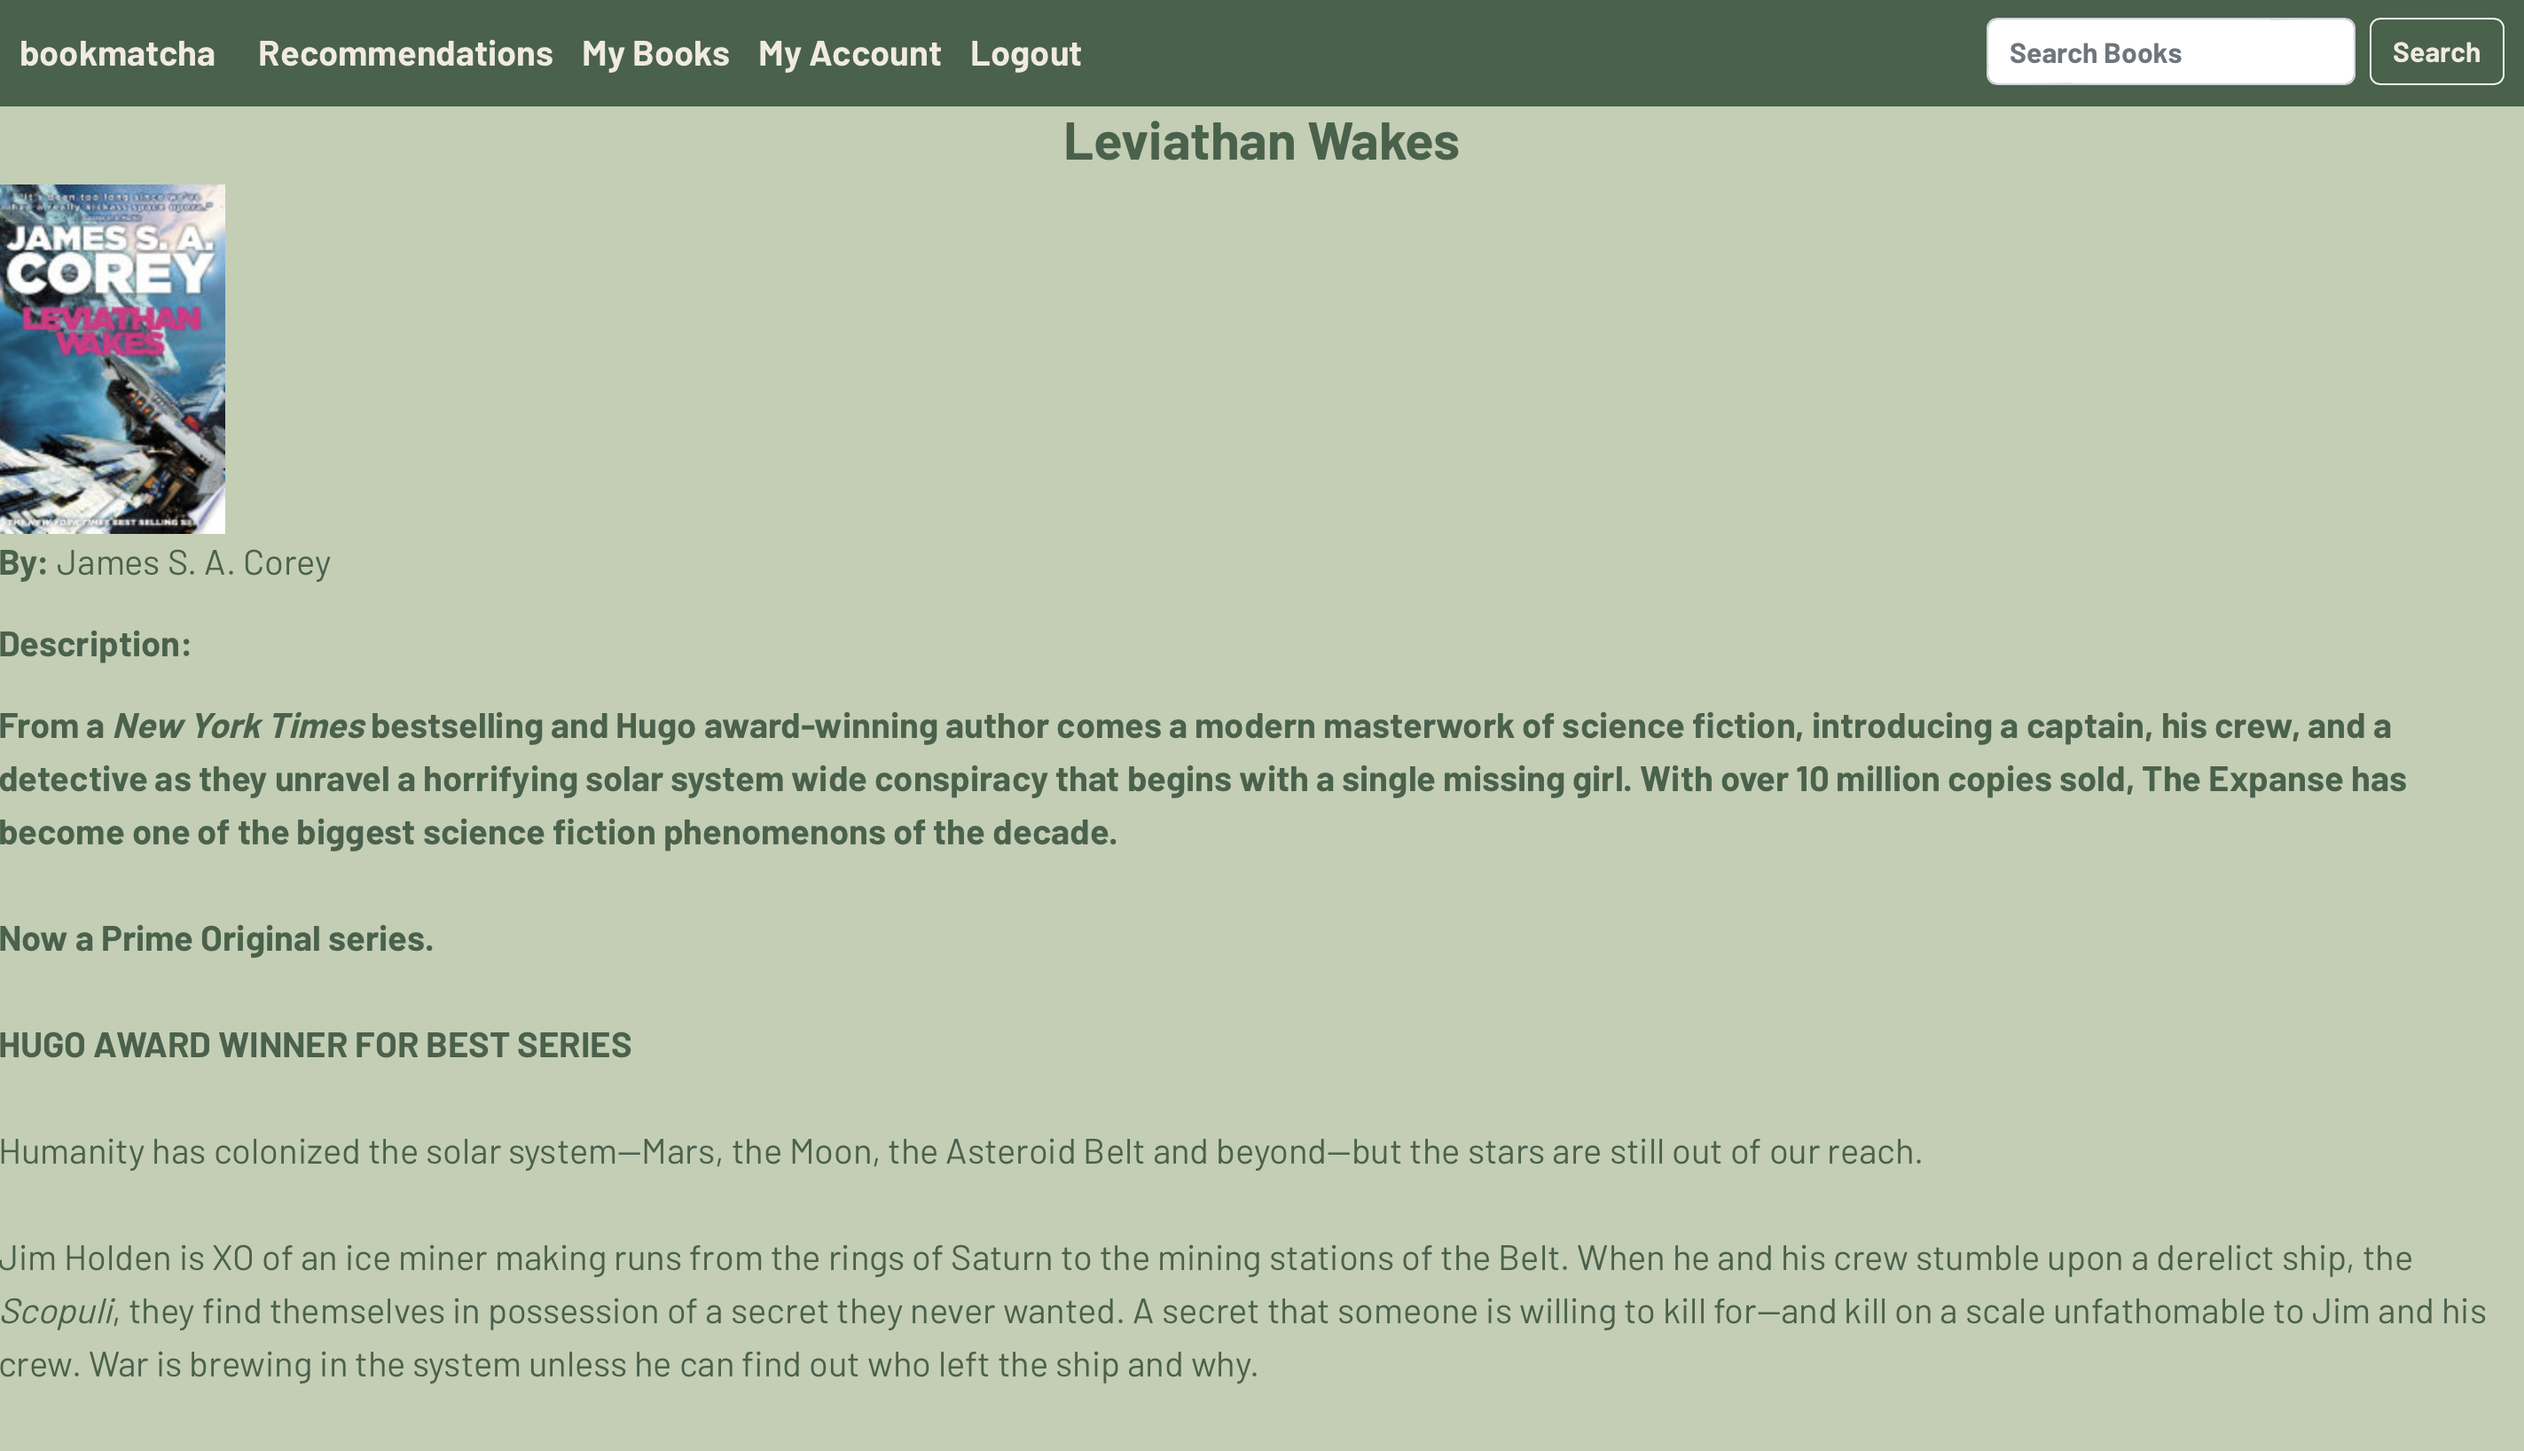
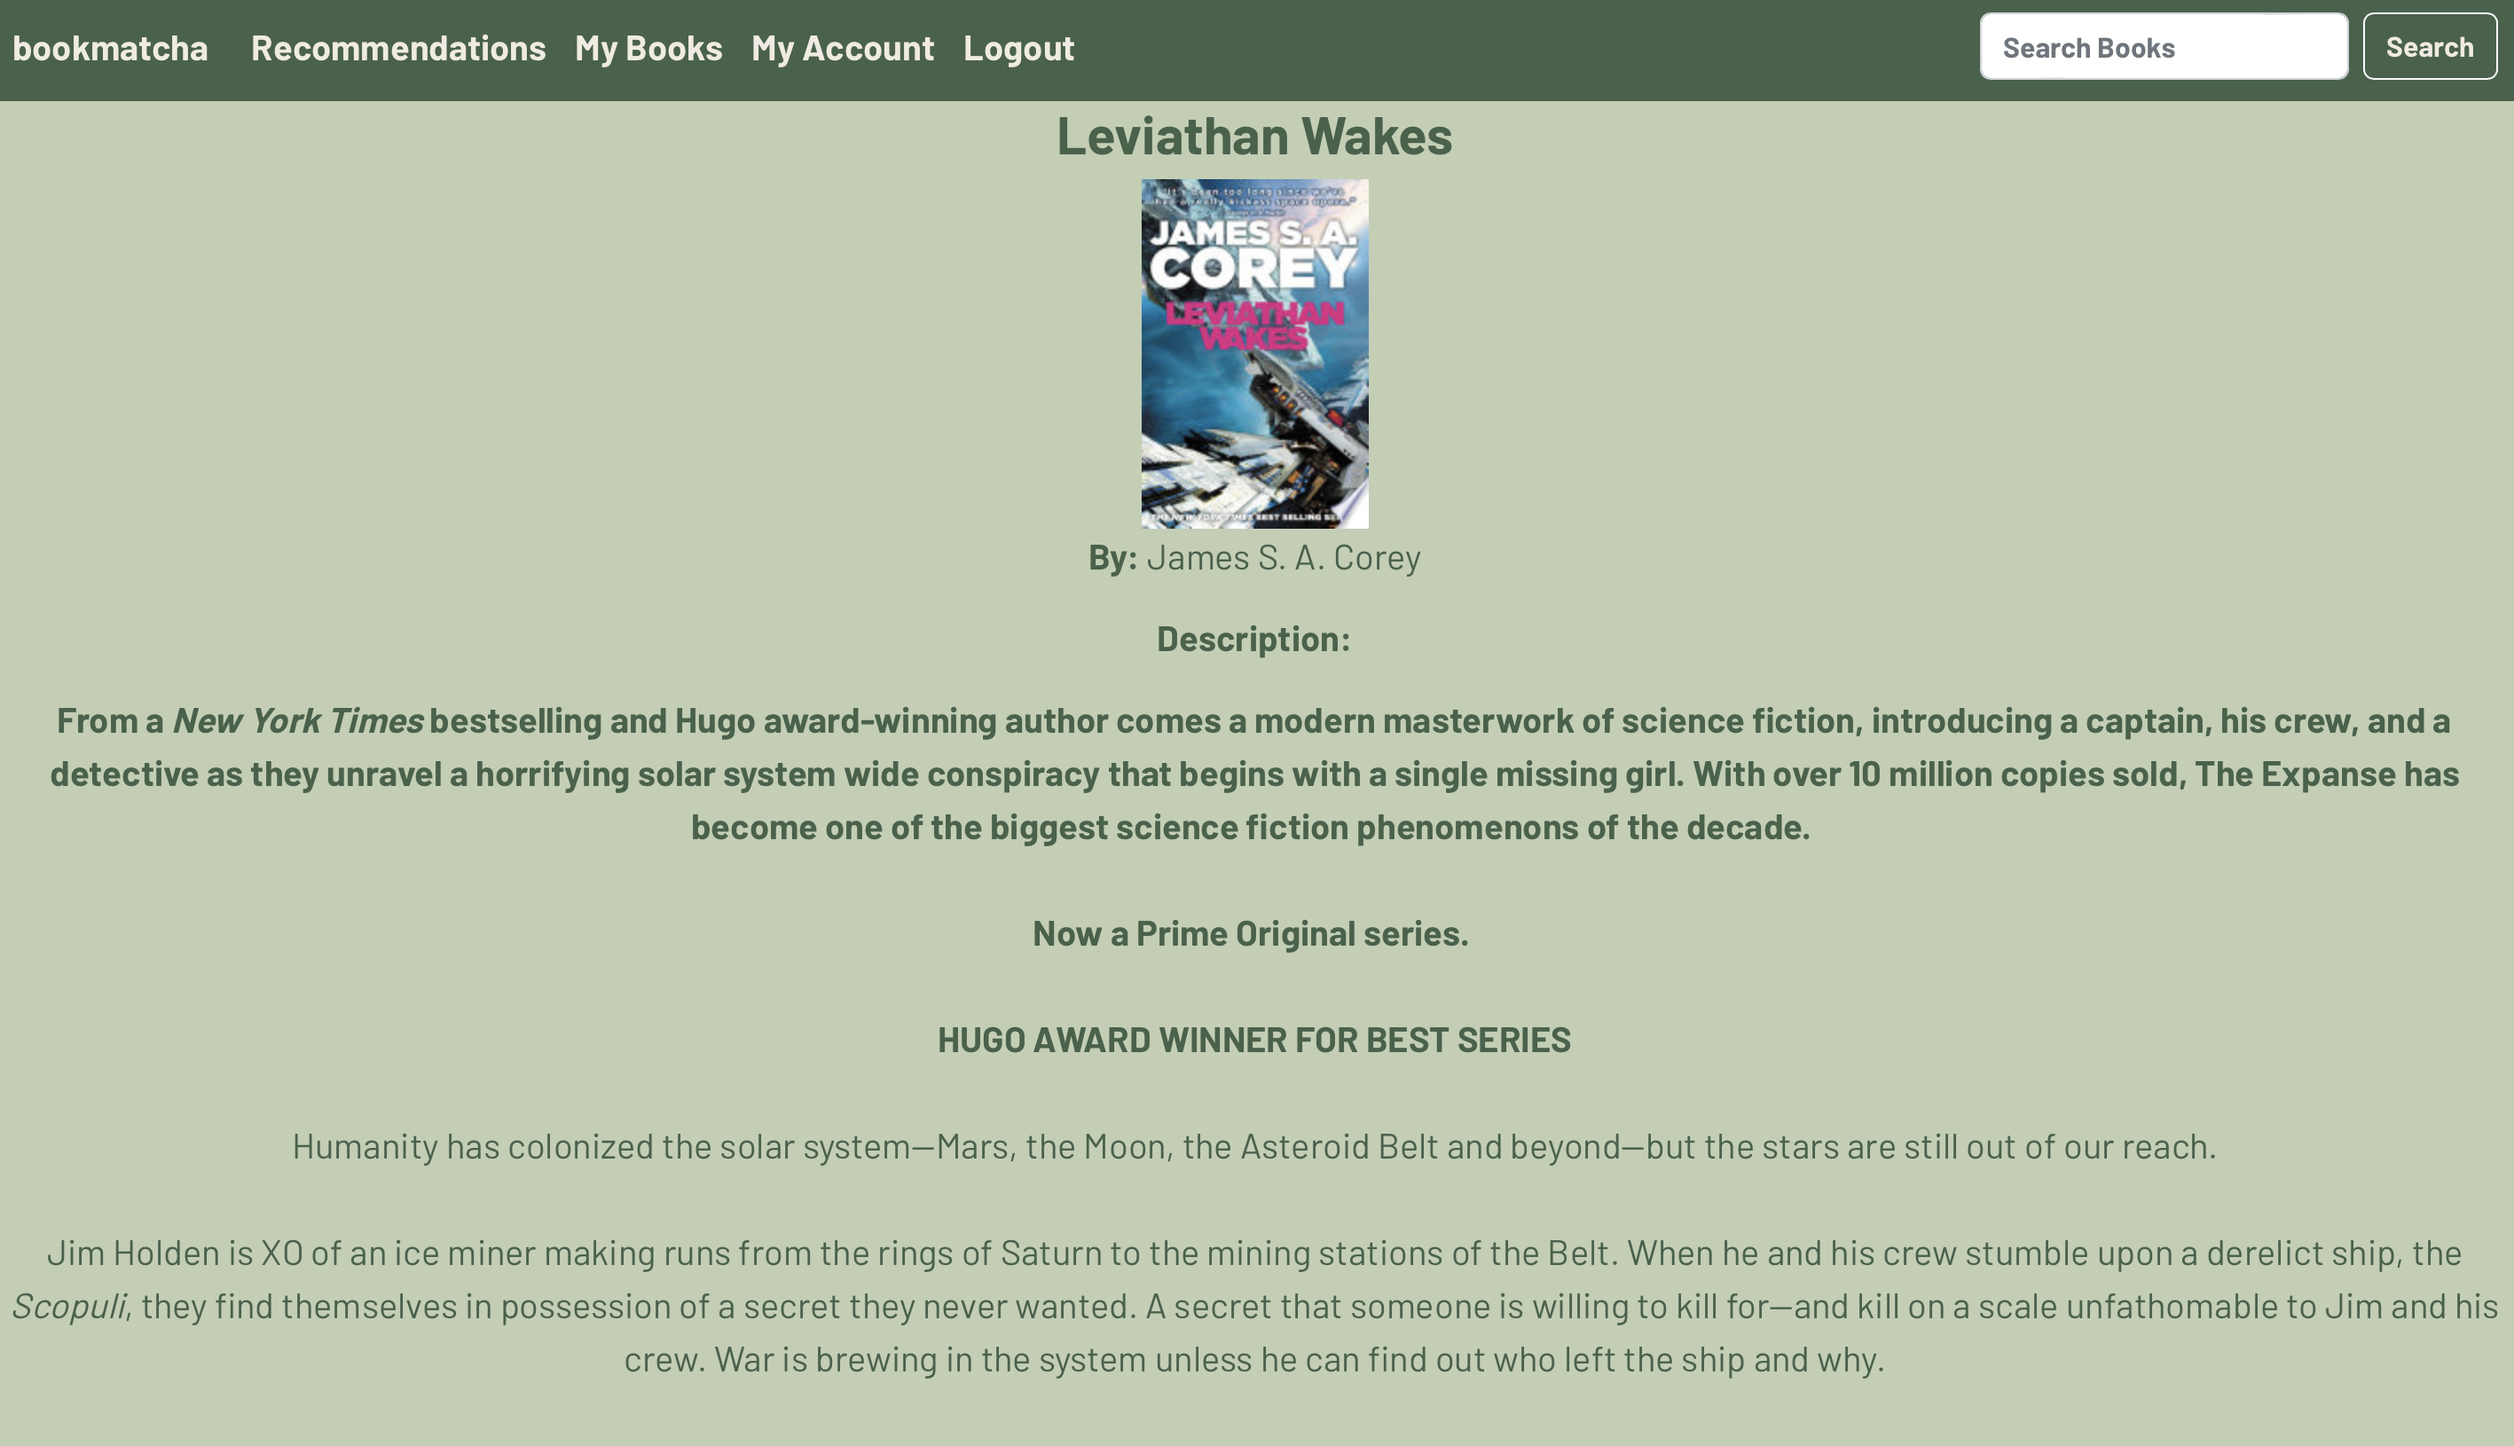
Update book details layout

diff --git a/src/Pages/BookDetails.js b/src/Pages/BookDetails.js
@@ -158,12 +158,14 @@ export function BookDetails() {
     return (
         <div>
             <h1 className="title">{book.volumeInfo?.title || 'No Title Available'}</h1>
+            <div style={{ textAlign: 'center' }}>
             {book.volumeInfo?.imageLinks?.thumbnail && (
                 <img src={book.volumeInfo.imageLinks.thumbnail} alt={book.volumeInfo.title} />
             )}
-            <p><strong>By:</strong> {book.volumeInfo?.authors?.join(', ') || 'Unknown'}</p>
-            <p><strong>Description:</strong></p>
-            <div dangerouslySetInnerHTML= { {__html: book.volumeInfo?.description} || 'No Description Available'}>
+            </div>
+            <p style={{ textAlign: 'center' }}><strong>By:</strong> {book.volumeInfo?.authors?.join(', ') || 'Unknown'}</p>
+            <p style={{ textAlign: 'center' }}><strong>Description:</strong></p>
+            <div style={{ textAlign: 'center' }} dangerouslySetInnerHTML= { {__html: book.volumeInfo?.description} || 'No Description Available'}>
             </div>
             <p><strong>Average Rating:</strong> {averageRating !== null ? averageRating.toFixed(2) : 'No ratings yet'}</p>
             <p><strong>Total Reviews:</strong> {reviews.length}</p>
